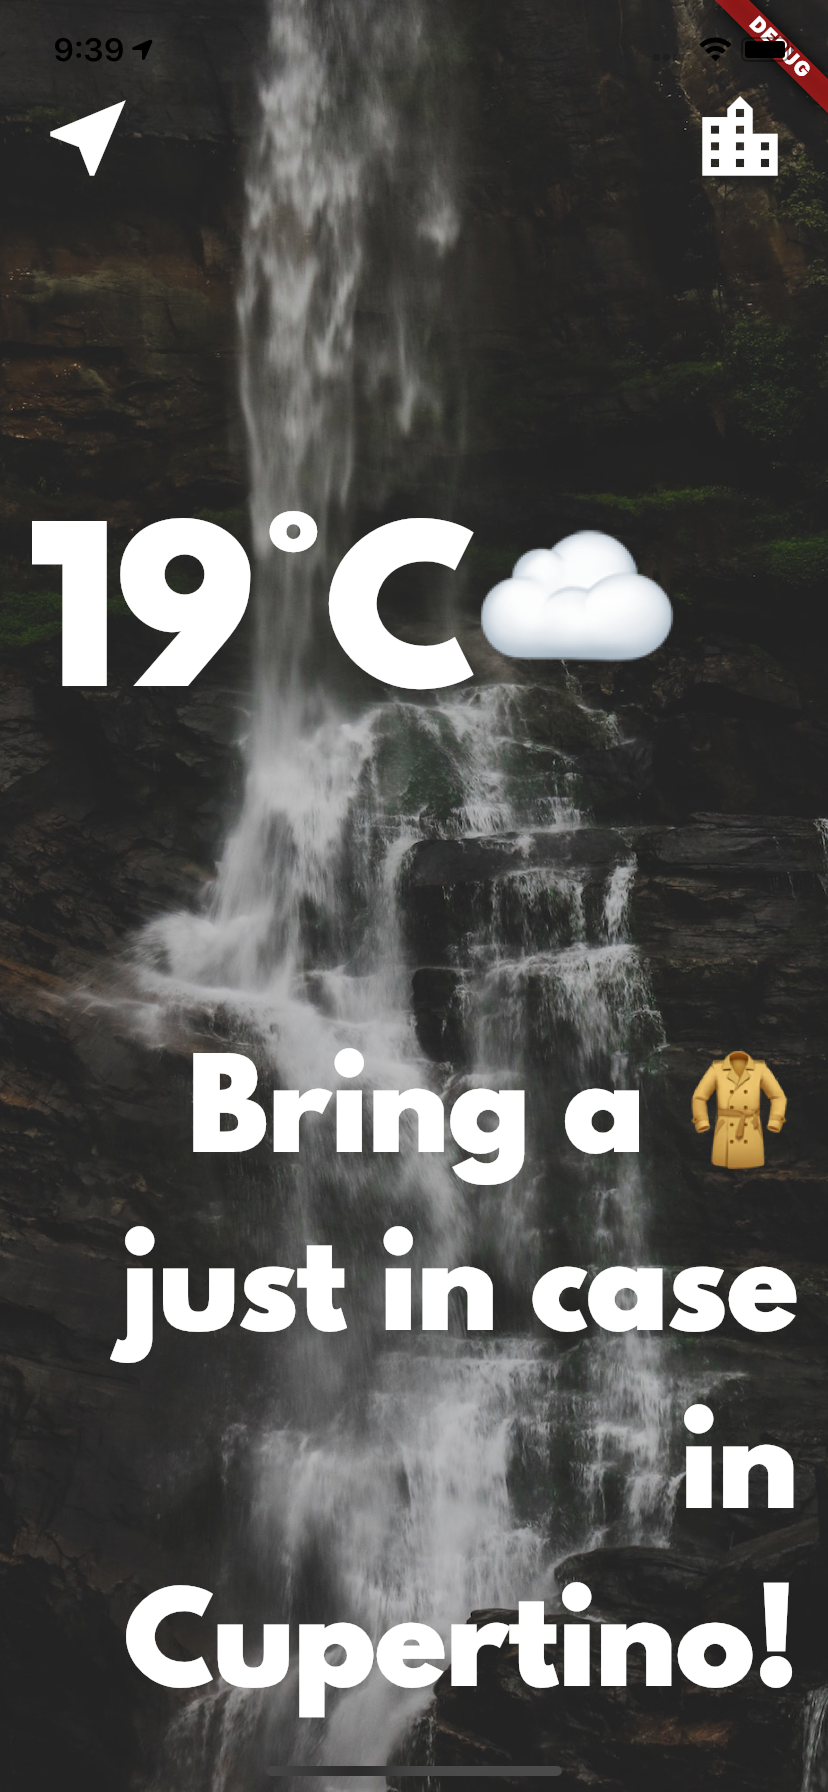
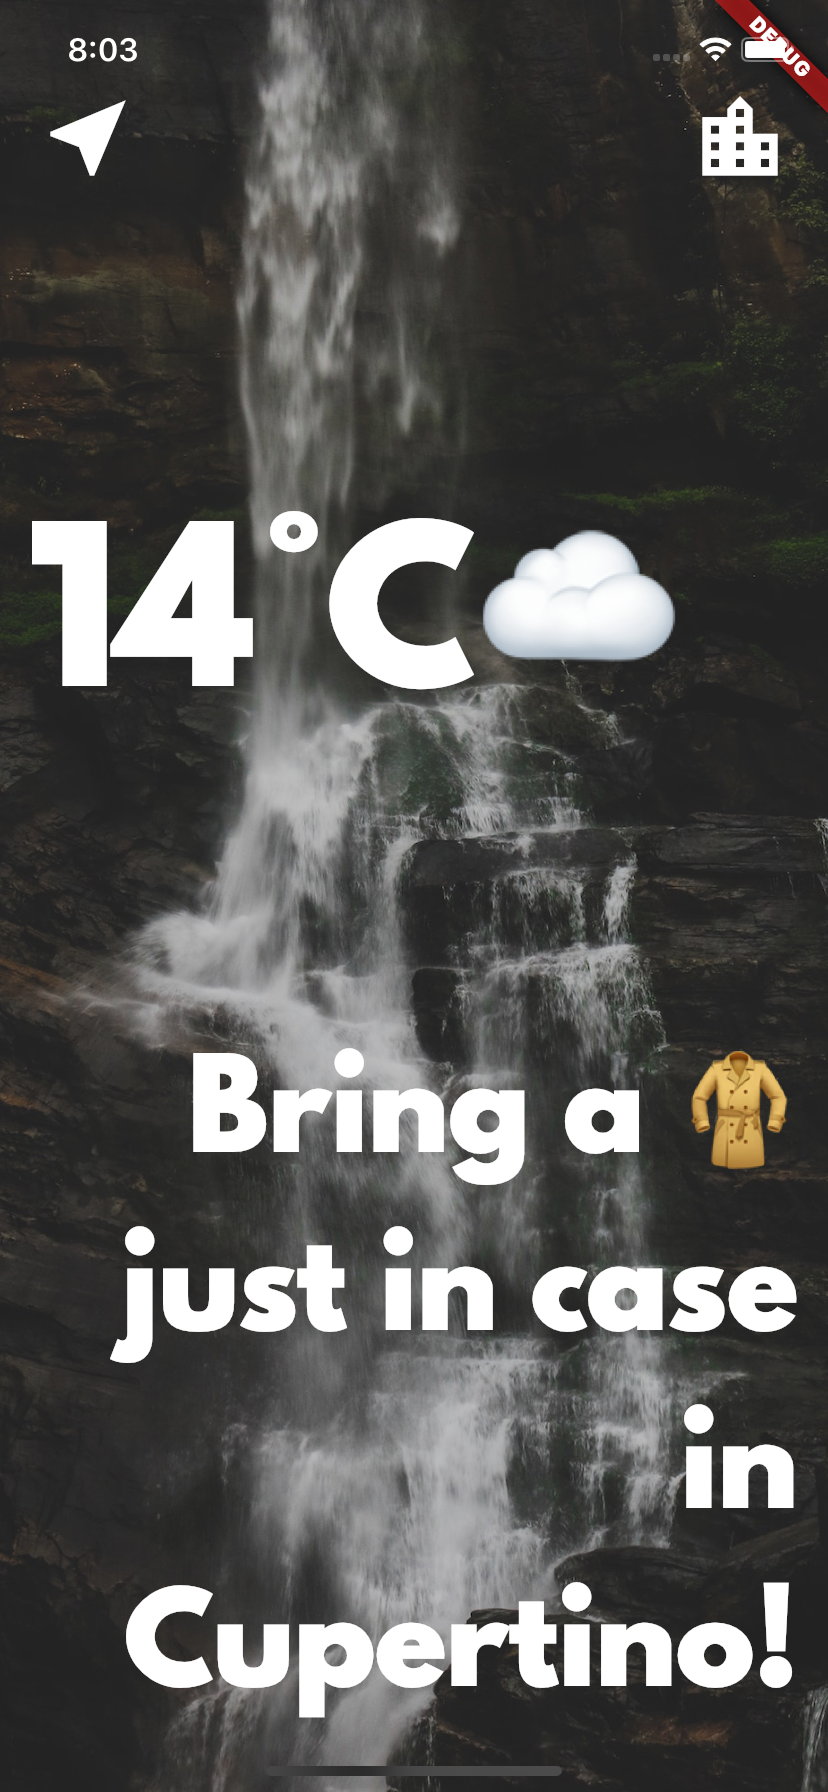
Fix status bar text color. Update app screenshot.

diff --git a/lib/screens/location_screen.dart b/lib/screens/location_screen.dart
@@ -1,4 +1,5 @@
 import 'package:flutter/material.dart';
+import 'package:flutter/services.dart';
 import '../constants.dart';
 import '../services/weather_service.dart';
 import 'city_screen.dart';
@@ -42,78 +43,84 @@ class _LocationScreenState extends State<LocationScreen> {
 
   @override
   Widget build(BuildContext context) {
+    SystemChrome.setSystemUIOverlayStyle(SystemUiOverlayStyle(
+      statusBarColor: Colors.blue, //or set color with: Color(0xFF0000FF)
+    ));
     return Scaffold(
-      body: Container(
-        decoration: BoxDecoration(
-          image: DecorationImage(
-            image: AssetImage('images/location_background.jpg'),
-            fit: BoxFit.cover,
-            colorFilter: ColorFilter.mode(
-                Colors.white.withOpacity(0.8), BlendMode.dstATop),
+      body: AnnotatedRegion<SystemUiOverlayStyle>(
+        value: SystemUiOverlayStyle.light,
+        child: Container(
+          decoration: BoxDecoration(
+            image: DecorationImage(
+              image: AssetImage('images/location_background.jpg'),
+              fit: BoxFit.cover,
+              colorFilter: ColorFilter.mode(
+                  Colors.white.withOpacity(0.8), BlendMode.dstATop),
+            ),
           ),
-        ),
-        constraints: BoxConstraints.expand(),
-        child: SafeArea(
-          child: Column(
-            mainAxisAlignment: MainAxisAlignment.spaceBetween,
-            crossAxisAlignment: CrossAxisAlignment.stretch,
-            children: <Widget>[
-              Row(
-                mainAxisAlignment: MainAxisAlignment.spaceBetween,
-                children: <Widget>[
-                  FlatButton(
-                    onPressed: () async {
-                      var weatherData = await weather.getLocationWeather();
-                      updateUI(weatherData);
-                    },
-                    child: Icon(
-                      Icons.near_me,
-                      size: 50.0,
-                    ),
-                  ),
-                  FlatButton(
-                    onPressed: () async {
-                      var typedName = await Navigator.push(context,
-                          MaterialPageRoute(builder: (context) {
-                        return CityScreen();
-                      }));
-                      if (typedName != null) {
-                        var weatherData =
-                            await weather.getCityWeather(typedName);
-                        updateUI(weatherData);
-                      }
-                    },
-                    child: Icon(
-                      Icons.location_city,
-                      size: 50.0,
-                    ),
-                  ),
-                ],
-              ),
-              Padding(
-                padding: EdgeInsets.only(left: 15.0),
-                child: Row(
+          constraints: BoxConstraints.expand(),
+          child: SafeArea(
+            child: Column(
+              mainAxisAlignment: MainAxisAlignment.spaceBetween,
+              crossAxisAlignment: CrossAxisAlignment.stretch,
+              children: <Widget>[
+                Row(
+                  mainAxisAlignment: MainAxisAlignment.spaceBetween,
                   children: <Widget>[
-                    Text(
-                      '$temperature°C',
-                      style: kTempTextStyle,
+                    FlatButton(
+                      onPressed: () async {
+                        var weatherData = await weather.getLocationWeather();
+                        updateUI(weatherData);
+                      },
+                      child: Icon(
+                        Icons.near_me,
+                        size: 50.0,
+                      ),
                     ),
-                    Text(
-                      weatherIcon,
-                      style: kConditionTextStyle,
+                    FlatButton(
+                      onPressed: () async {
+                        var typedName = await Navigator.push(context,
+                            MaterialPageRoute(builder: (context) {
+                          return CityScreen();
+                        }));
+                        if (typedName != null) {
+                          var weatherData =
+                              await weather.getCityWeather(typedName);
+                          updateUI(weatherData);
+                        }
+                      },
+                      child: Icon(
+                        Icons.location_city,
+                        size: 50.0,
+                      ),
                     ),
                   ],
                 ),
-              ),
-              Padding(
-                padding: EdgeInsets.only(right: 15.0),
-                child: Text(
-                  '$weatherMessage in $cityName!',
-                  textAlign: TextAlign.right,
-                  style: kMessageTextStyle,
+                Padding(
+                  padding: EdgeInsets.only(left: 15.0),
+                  child: Row(
+                    children: <Widget>[
+                      Text(
+                        '$temperature°C',
+                        style: kTempTextStyle,
+                      ),
+                      Text(
+                        weatherIcon,
+                        style: kConditionTextStyle,
+                      ),
+                    ],
+                  ),
                 ),
-              ),
-            ],
+                Padding(
+                  padding: EdgeInsets.only(right: 15.0),
+                  child: Text(
+                    '$weatherMessage in $cityName!',
+                    textAlign: TextAlign.right,
+                    style: kMessageTextStyle,
+                  ),
+                ),
+              ],
+            ),
           ),
         ),
       ),

diff --git a/lib/screens/city_screen.dart b/lib/screens/city_screen.dart
@@ -1,5 +1,6 @@
 import 'package:climaweatherapp/constants.dart';
 import 'package:flutter/material.dart';
+import 'package:flutter/services.dart';
 
 class CityScreen extends StatefulWidget {
   @override
@@ -12,45 +13,48 @@ class _CityScreenState extends State<CityScreen> {
   @override
   Widget build(BuildContext context) {
     return Scaffold(
-      body: Container(
-        decoration: BoxDecoration(
-          image: DecorationImage(
-            image: AssetImage('images/city_background.jpg'),
-            fit: BoxFit.cover,
+      body: AnnotatedRegion<SystemUiOverlayStyle>(
+        value: SystemUiOverlayStyle.light,
+        child: Container(
+          decoration: BoxDecoration(
+            image: DecorationImage(
+              image: AssetImage('images/city_background.jpg'),
+              fit: BoxFit.cover,
+            ),
           ),
-        ),
-        constraints: BoxConstraints.expand(),
-        child: SafeArea(
-          child: Column(
-            children: <Widget>[
-              Align(
-                alignment: Alignment.topLeft,
-                child: FlatButton(
-                  onPressed: () => Navigator.pop(context),
-                  child: Icon(
-                    Icons.arrow_back_ios,
-                    size: 50.0,
+          constraints: BoxConstraints.expand(),
+          child: SafeArea(
+            child: Column(
+              children: <Widget>[
+                Align(
+                  alignment: Alignment.topLeft,
+                  child: FlatButton(
+                    onPressed: () => Navigator.pop(context),
+                    child: Icon(
+                      Icons.arrow_back_ios,
+                      size: 50.0,
+                    ),
                   ),
                 ),
-              ),
-              Container(
-                padding: EdgeInsets.all(20.0),
-                child: TextField(
-                  style: TextStyle(color: Colors.black),
-                  decoration: kTextFieldInputDecoration,
-                  onChanged: (value) {
-                    cityName = value;
-                  },
+                Container(
+                  padding: EdgeInsets.all(20.0),
+                  child: TextField(
+                    style: TextStyle(color: Colors.black),
+                    decoration: kTextFieldInputDecoration,
+                    onChanged: (value) {
+                      cityName = value;
+                    },
+                  ),
                 ),
-              ),
-              FlatButton(
-                onPressed: () => Navigator.pop(context, cityName),
-                child: Text(
-                  'Get Weather',
-                  style: kButtonTextStyle,
+                FlatButton(
+                  onPressed: () => Navigator.pop(context, cityName),
+                  child: Text(
+                    'Get Weather',
+                    style: kButtonTextStyle,
+                  ),
                 ),
-              ),
-            ],
+              ],
+            ),
           ),
         ),
       ),

diff --git a/lib/screens/loading_screen.dart b/lib/screens/loading_screen.dart
@@ -1,5 +1,6 @@
 import 'package:climaweatherapp/services/weather_service.dart';
 import 'package:flutter/material.dart';
+import 'package:flutter/services.dart';
 import 'package:flutter_spinkit/flutter_spinkit.dart';
 
 import 'location_screen.dart';
@@ -36,10 +37,13 @@ class _LoadingScreenState extends State<LoadingScreen> {
   @override
   Widget build(BuildContext context) {
     return Scaffold(
-      body: Center(
-        child: SpinKitDoubleBounce(
-          color: Colors.white,
-          size: 100.0,
+      body: AnnotatedRegion<SystemUiOverlayStyle>(
+        value: SystemUiOverlayStyle.light,
+        child: Center(
+          child: SpinKitDoubleBounce(
+            color: Colors.white,
+            size: 100.0,
+          ),
         ),
       ),
     );
